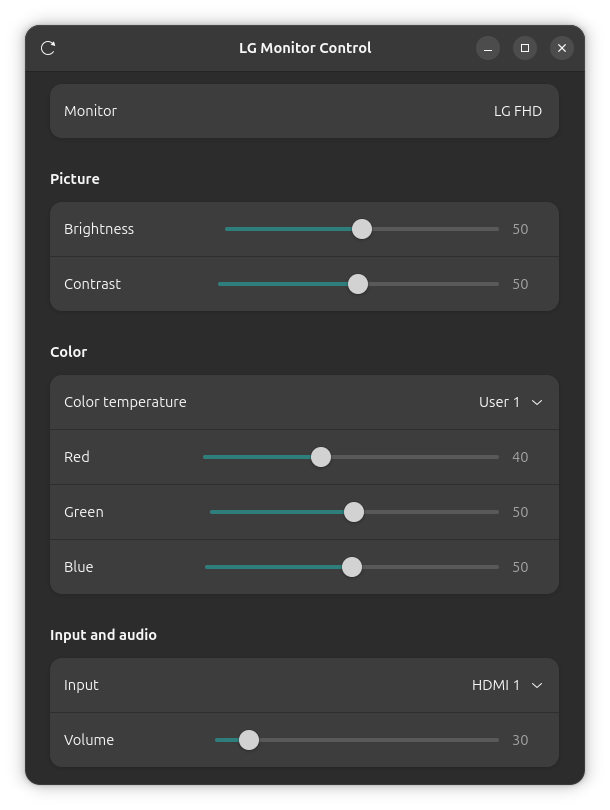
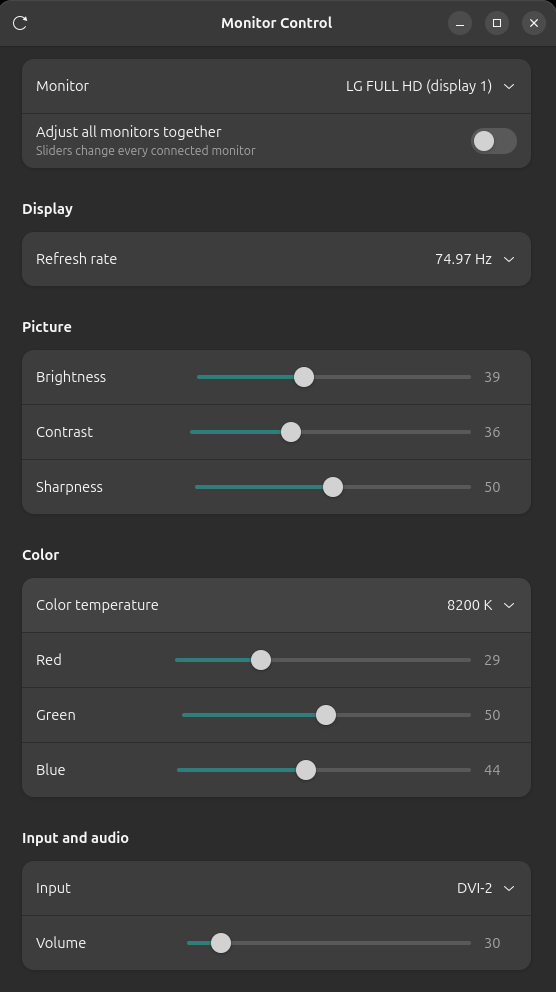
Rebrand from LG to all brands (#2)

diff --git a/monitor_control.py b/monitor_control.py
@@ -1,12 +1,13 @@
 #!/usr/bin/env python3
 """
-LG Monitor Control for Ubuntu
+Monitor Control for Ubuntu
 
-A small GTK4 / libadwaita front end for ddcutil (DDC/CI), in the spirit of
-LG OnScreen Control on Windows: brightness, contrast, sharpness, color
-temperature, RGB gain, input source, volume, and saved profiles. The refresh
-rate is set through GNOME's display configuration service (Mutter), since
-DDC/CI can't change it.
+A small GTK4 / libadwaita front end for ddcutil (DDC/CI), in the spirit of the
+Windows and macOS apps monitor makers ship (LG OnScreen Control, Dell Display
+Manager and the like): brightness, contrast, sharpness, color temperature,
+RGB gain, input source, volume, and saved profiles. Works with any brand.
+The refresh rate is set through GNOME's display configuration service
+(Mutter), since DDC/CI can't change it.
 """
 import json
 import os
@@ -29,9 +30,18 @@ except (ImportError, ValueError):
         "Install them with: sudo apt install python3-gi gir1.2-gtk-4.0 gir1.2-adw-1"
     )
 
-APP_ID = "io.github.lgmonitorcontrol"
-CONFIG_DIR = os.path.join(GLib.get_user_config_dir(), "lg-monitor-control")
+APP_ID = "io.github.monitorcontrol"
+CONFIG_DIR = os.path.join(GLib.get_user_config_dir(), "monitor-control")
 PROFILES_FILE = os.path.join(CONFIG_DIR, "profiles.json")
+
+# EDID manufacturer IDs (PNP IDs) of common monitor brands
+MANUFACTURERS = {
+    "ACI": "ASUS", "AUS": "ASUS", "ACR": "Acer", "AOC": "AOC", "BNQ": "BenQ",
+    "DEL": "Dell", "ENC": "EIZO", "GBT": "Gigabyte", "GSM": "LG", "HPN": "HP",
+    "HWP": "HP", "IVM": "iiyama", "LEN": "Lenovo", "MSI": "MSI", "NEC": "NEC",
+    "PHL": "Philips", "SAM": "Samsung", "SHP": "Sharp", "SNY": "Sony",
+    "VSC": "ViewSonic", "XMI": "Xiaomi",
+}
 
 # MCCS VCP feature codes
 BRIGHTNESS, CONTRAST, SHARPNESS = 0x10, 0x12, 0x87
@@ -89,6 +99,19 @@ def ddcutil(*args, timeout=20):
             return 127, "", "ddcutil not found"
 
 
+def monitor_name(mfg_id, model):
+    """Build a readable name like "Dell U2720Q" from an EDID maker ID and model."""
+    brand = MANUFACTURERS.get(mfg_id.upper(), mfg_id)
+    if not model:
+        return brand
+    if model.upper().startswith(brand.upper()):  # "DELL U2720Q", "LG FULL HD"
+        return model
+    first, _, rest = model.partition(" ")
+    if first.upper() == mfg_id.upper() and rest:  # "LEN T27h-20" -> "Lenovo T27h-20"
+        return f"{brand} {rest}"
+    return f"{brand} {model}"
+
+
 def parse_detect(out):
     displays, cur = [], None
     for line in out.splitlines():
@@ -115,12 +138,8 @@ def parse_detect(out):
         elif s.startswith("Monitor:"):
             parts = [p.strip() for p in s.split(":", 1)[1].split(":")]
             cur["edid"] = tuple((parts + ["", "", ""])[:3])
-            mfg = "LG" if parts[0] == "GSM" else parts[0]
-            model = parts[1] if len(parts) > 1 and parts[1] else ""
-            if model.upper().startswith(mfg.upper()):
-                cur["name"] = model
-            else:
-                cur["name"] = f"{mfg} {model}".strip()
+            model = parts[1] if len(parts) > 1 else ""
+            cur["name"] = monitor_name(parts[0], model)
     displays = [d for d in displays if d["bus"]]
     for d in displays:
         d["label"] = f"{d['name']} (display {d['num']})" if len(displays) > 1 else d["name"]
@@ -288,8 +307,8 @@ def read_monitor_state(display):
     caps = read_capabilities(bus)
     state = {}
     for code in ALL_CODES:
-        # Some LG monitors leave brightness/contrast out of their capability list
-        # even though they support them, so always try those two.
+        # Some monitors (several LG models among them) leave brightness/contrast out
+        # of their capability list even though they support them, so always try those two.
         if caps and code not in caps and code not in ALWAYS_TRY:
             continue
         v = getvcp(bus, code)
@@ -358,7 +377,7 @@ def save_profiles(profiles):
 # --------------------------------------------------------------------------
 class MainWindow(Adw.ApplicationWindow):
     def __init__(self, app):
-        super().__init__(application=app, title="LG Monitor Control")
+        super().__init__(application=app, title="Monitor Control")
         self.set_default_size(560, 760)
         self.displays, self.current = [], None
         self.sliders, self.loading, self.sync_all = {}, False, False

diff --git a/README.md b/README.md
@@ -1,12 +1,12 @@
-# LG Monitor Control for Ubuntu
+# Monitor Control for Ubuntu
 
-Adjust your monitor's brightness, contrast, color and input from the Ubuntu desktop, without digging through the on-screen menu. It's a small, native-looking alternative to LG OnScreen Control, which only runs on Windows and macOS.
+Adjust your monitor's brightness, contrast, color and input from the Ubuntu desktop, without digging through the on-screen menu. It's a small, native-looking alternative to the control apps monitor makers ship only for Windows and macOS, such as LG OnScreen Control or Dell Display Manager.
 
-![LG Monitor Control](screenshot.png)
+![Monitor Control](screenshot.png)
 
-It talks to the monitor over DDC/CI using [ddcutil](https://www.ddcutil.com/). It was built with LG monitors in mind, but it works with most external monitors that support DDC/CI.
+It talks to the monitor over DDC/CI using [ddcutil](https://www.ddcutil.com/), so it works with most external monitors from any brand: LG, Dell, Samsung, ASUS, BenQ, HP, Lenovo, Acer, AOC, Philips, MSI, Gigabyte and others.
 
-> This is an independent project. It is not made by or affiliated with LG Electronics.
+> This is an independent project. It is not made by or affiliated with any monitor manufacturer.
 
 ## Features
 
@@ -22,15 +22,19 @@ The app shows only the controls your monitor supports.
 ## Requirements
 
 - Ubuntu 22.04 or newer (other GNOME-based distros with GTK 4 and libadwaita should work too)
-- An external monitor with **DDC/CI turned on** in its on-screen menu (usually under General)
+- An external monitor with **DDC/CI turned on** in its on-screen menu (usually under General, Setup or System)
 
-Laptop built-in screens don't support DDC/CI, so they can't be controlled with this app.
+These can't be controlled with this app:
+
+- Laptop built-in screens, which don't support DDC/CI
+- Apple displays (Studio Display, Pro Display XDR), which are controlled over USB instead
+- Monitors connected through some docks, DisplayLink adapters or daisy chains (DisplayPort MST), which often don't pass DDC/CI through
 
 ## Install
 
 ```bash
-git clone https://github.com/SamiulSourav/lg-monitor-control.git
-cd lg-monitor-control
+git clone https://github.com/SamiulSourav/monitor-control.git
+cd monitor-control
 chmod +x install.sh
 ./install.sh
 ```
@@ -46,16 +50,16 @@ The installer:
 
 ## Usage
 
-Open **LG Monitor Control** from your app grid, or run `lg-monitor-control` in a terminal.
+Open **Monitor Control** from your app grid, or run `monitor-control` in a terminal.
 
-Profiles are saved in `~/.config/lg-monitor-control/profiles.json`.
+Profiles are saved in `~/.config/monitor-control/profiles.json`.
 
 ## Updating
 
-Download the new `lg_monitor_control.py`, then run:
+Download the new `monitor_control.py`, then run:
 
 ```bash
-install -m755 lg_monitor_control.py ~/.local/bin/lg-monitor-control
+install -m755 monitor_control.py ~/.local/bin/monitor-control
 ```
 
 Your profiles are kept.
@@ -64,14 +68,14 @@ Your profiles are kept.
 
 **"No controllable monitor found"**
 
-- Check that DDC/CI is on in the monitor's on-screen menu.
+- Check that DDC/CI is on in the monitor's on-screen menu. Some brands ship with it off.
 - Make sure you logged out and back in after installing.
 - Run `ddcutil detect` in a terminal. If it doesn't list your monitor, the app can't see it either.
 - On the NVIDIA proprietary driver, DDC/CI can be unreliable. See the [ddcutil NVIDIA notes](https://www.ddcutil.com/nvidia/).
 
 **A slider moves but nothing changes**
 
-Many LG monitors lock brightness and contrast in some modes, such as HDR, Auto Brightness or Smart Energy Saving. Turn those off in the monitor's menu. To check whether the monitor accepts changes at all, run:
+Many monitors lock brightness and contrast in some modes, such as HDR, dynamic contrast, auto brightness or eco/energy-saving modes. Turn those off in the monitor's menu. To check whether the monitor accepts changes at all, run:
 
 ```bash
 ddcutil setvcp 10 30
@@ -79,24 +83,24 @@ ddcutil setvcp 10 30
 
 **Switching input does nothing**
 
-Some LG models use non-standard codes for input switching. The other controls still work on these models.
+Some models, including several LG monitors, use non-standard codes for input switching. The other controls still work on these models.
 
 **Seeing errors**
 
-Start the app from a terminal with `lg-monitor-control`. Any errors are printed there.
+Start the app from a terminal with `monitor-control`. Any errors are printed there.
 
 ## Limitations
 
 The refresh rate isn't a DDC/CI setting. The app changes it through GNOME's display settings (the same ones GNOME Settings uses), so this option only appears in a GNOME session.
 
-Features like Screen Split, per-app picture modes and firmware updates come from LG's own software and can't be controlled over DDC/CI.
+Features that come from a monitor maker's own software, such as screen-splitting layouts, per-app picture modes and firmware updates, can't be controlled over DDC/CI.
 
 ## Uninstall
 
 ```bash
-rm ~/.local/bin/lg-monitor-control
-rm ~/.local/share/applications/lg-monitor-control.desktop
-rm -r ~/.config/lg-monitor-control
+rm ~/.local/bin/monitor-control
+rm ~/.local/share/applications/monitor-control.desktop
+rm -r ~/.config/monitor-control
 ```
 
 Optionally, undo the system changes:
